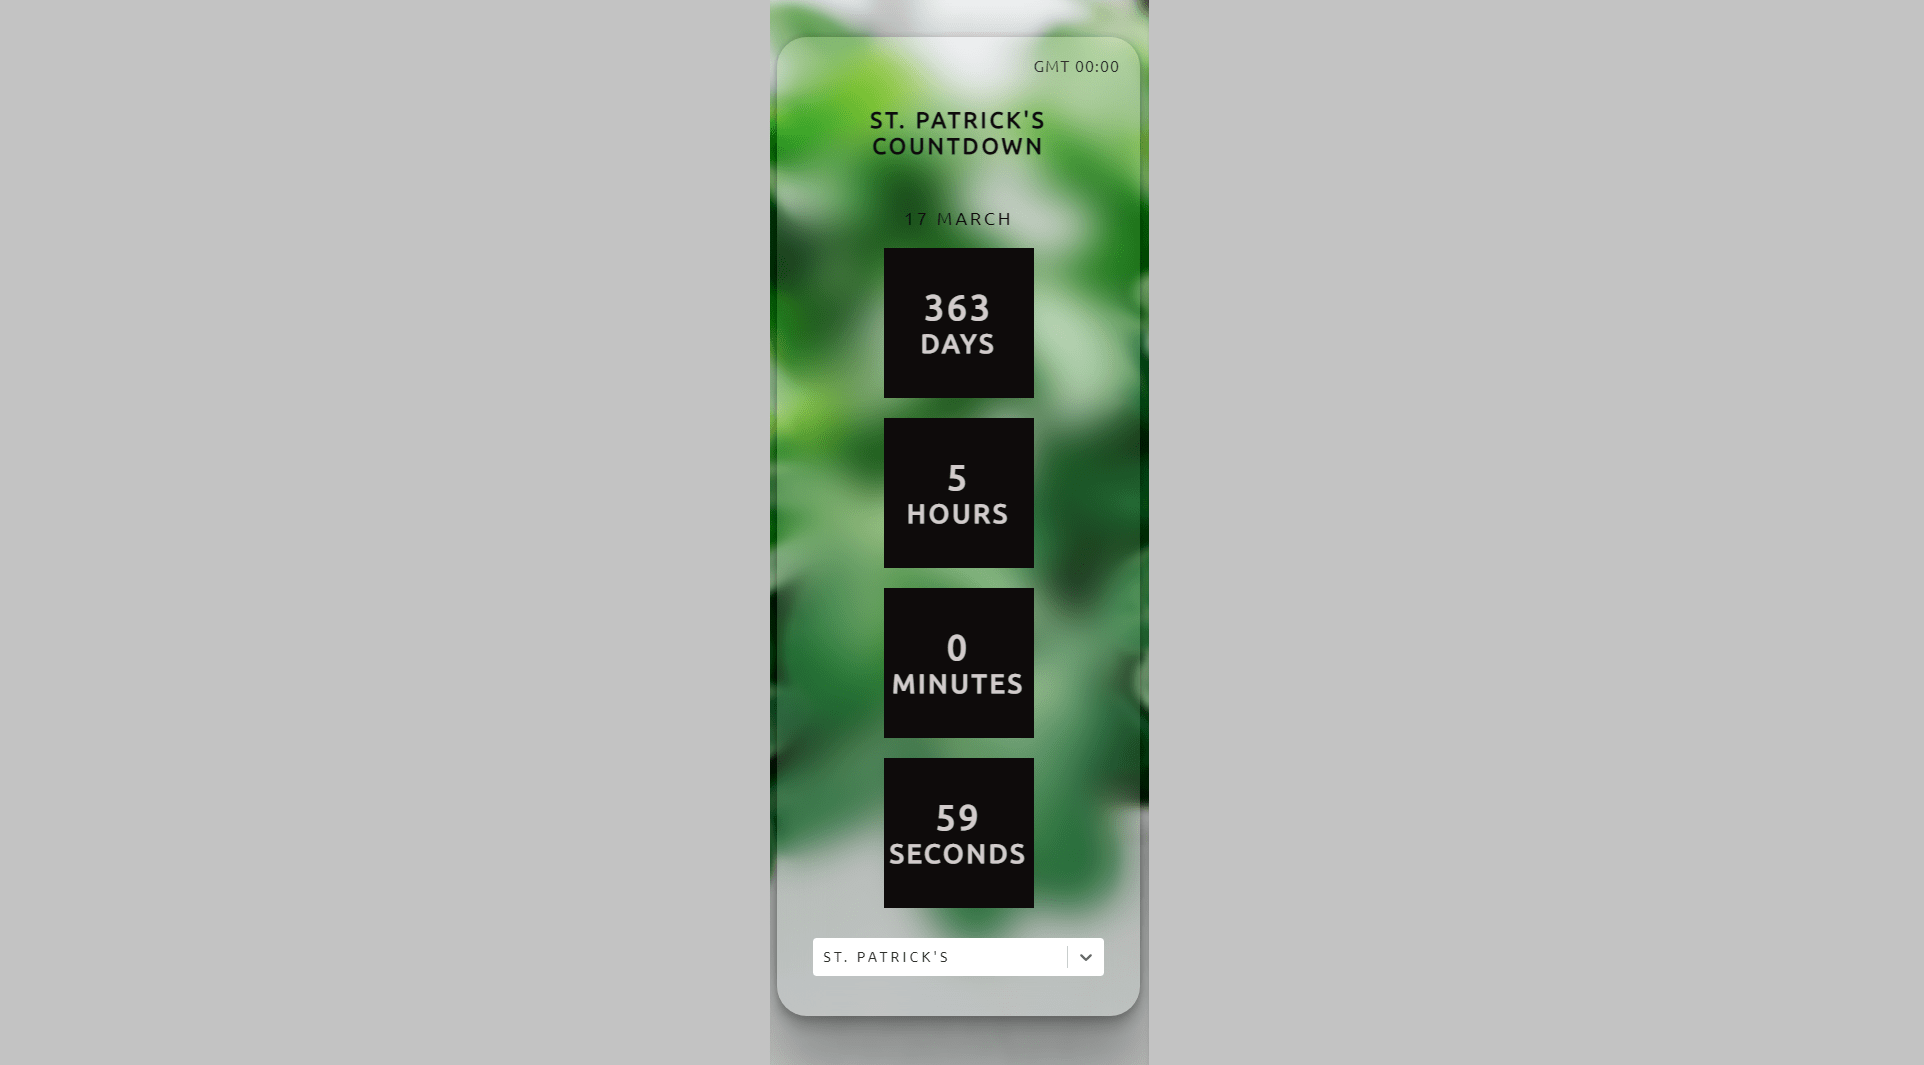
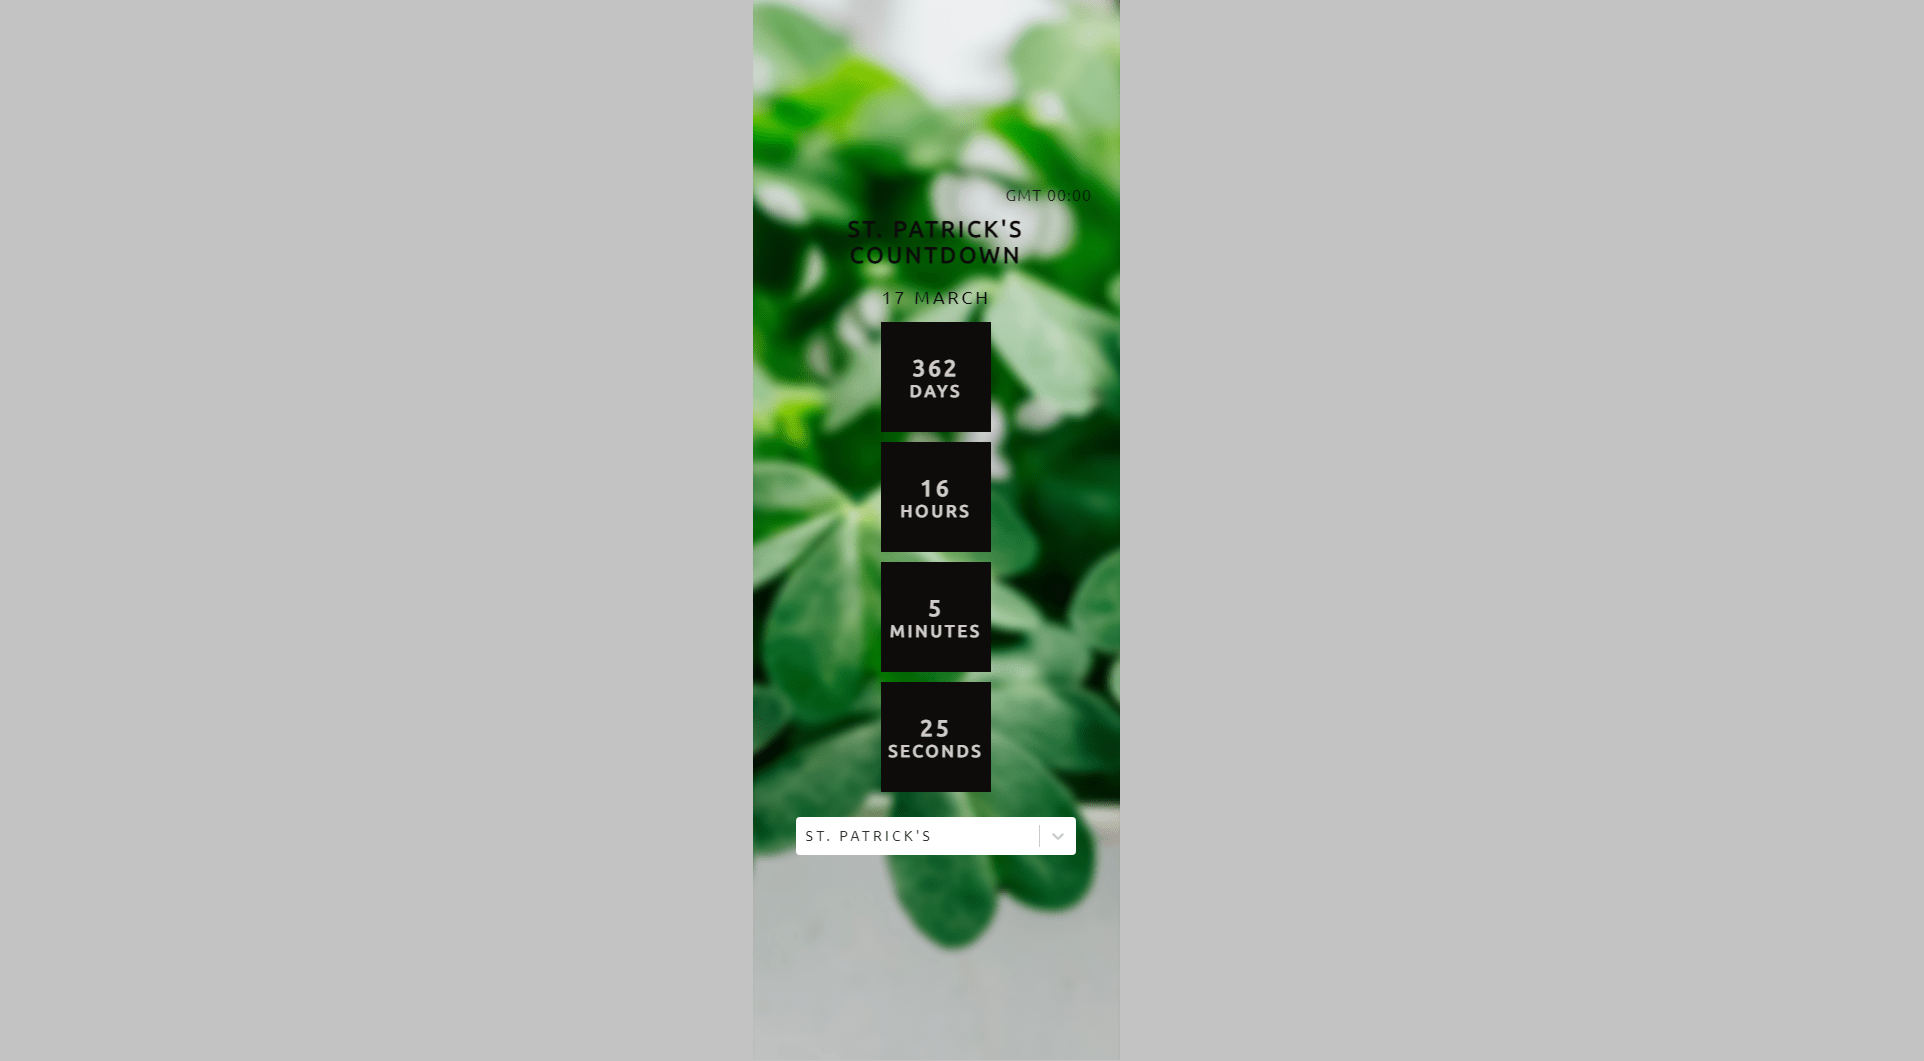
improved mobile view, added new mobile preview image, added open graph

Changed region(s): [[0.3742, 0.0, 0.6237, 1.0]]

diff --git a/src/App.css b/src/App.css
@@ -175,6 +175,11 @@ body {
 /* media queries */
 @media (max-width: 1000px) {
   .timerContainer {
+    backdrop-filter: none;
+    background: none;
+    box-shadow: none;
+  }
+  .timerContainer {
     margin-top: 50px;
   }
   .boxesContainer {
@@ -195,12 +200,20 @@ body {
   }
 }
 @media (max-width: 500px) {
+  .timerTitle {
+    padding: 30px;
+    padding-bottom: 20px;
+  }
+  .timerDate {
+  }
   .timerContainer {
-    margin-top: 0;
+    margin-top: 10px;
   }
   .box {
-    height: 150px;
-    width: 150px;
+    height: 110px;
+    width: 110px;
+    font-size: 0.7rem;
+    margin: 5px;
   }
   .select {
     width: 90%;

diff --git a/public/index.html b/public/index.html
@@ -3,6 +3,9 @@
   <head>
     <meta charset="utf-8" />
     <link rel="icon" href="%PUBLIC_URL%/favicon.ico" />
+    <meta property="og:title" content="Date Countdown" />
+<meta property="og:description" content="A countdown app that countsdown the time untill the chosen date" />
+<meta property="og:image" content="https://raw.githubusercontent.com/philipHinch/new_years_countdown/main/src/assets/previews/countdownpreview2.png" />
     <meta name="viewport" content="width=device-width, initial-scale=1" />
     <meta name="theme-color" content="#000000" />
     <meta
